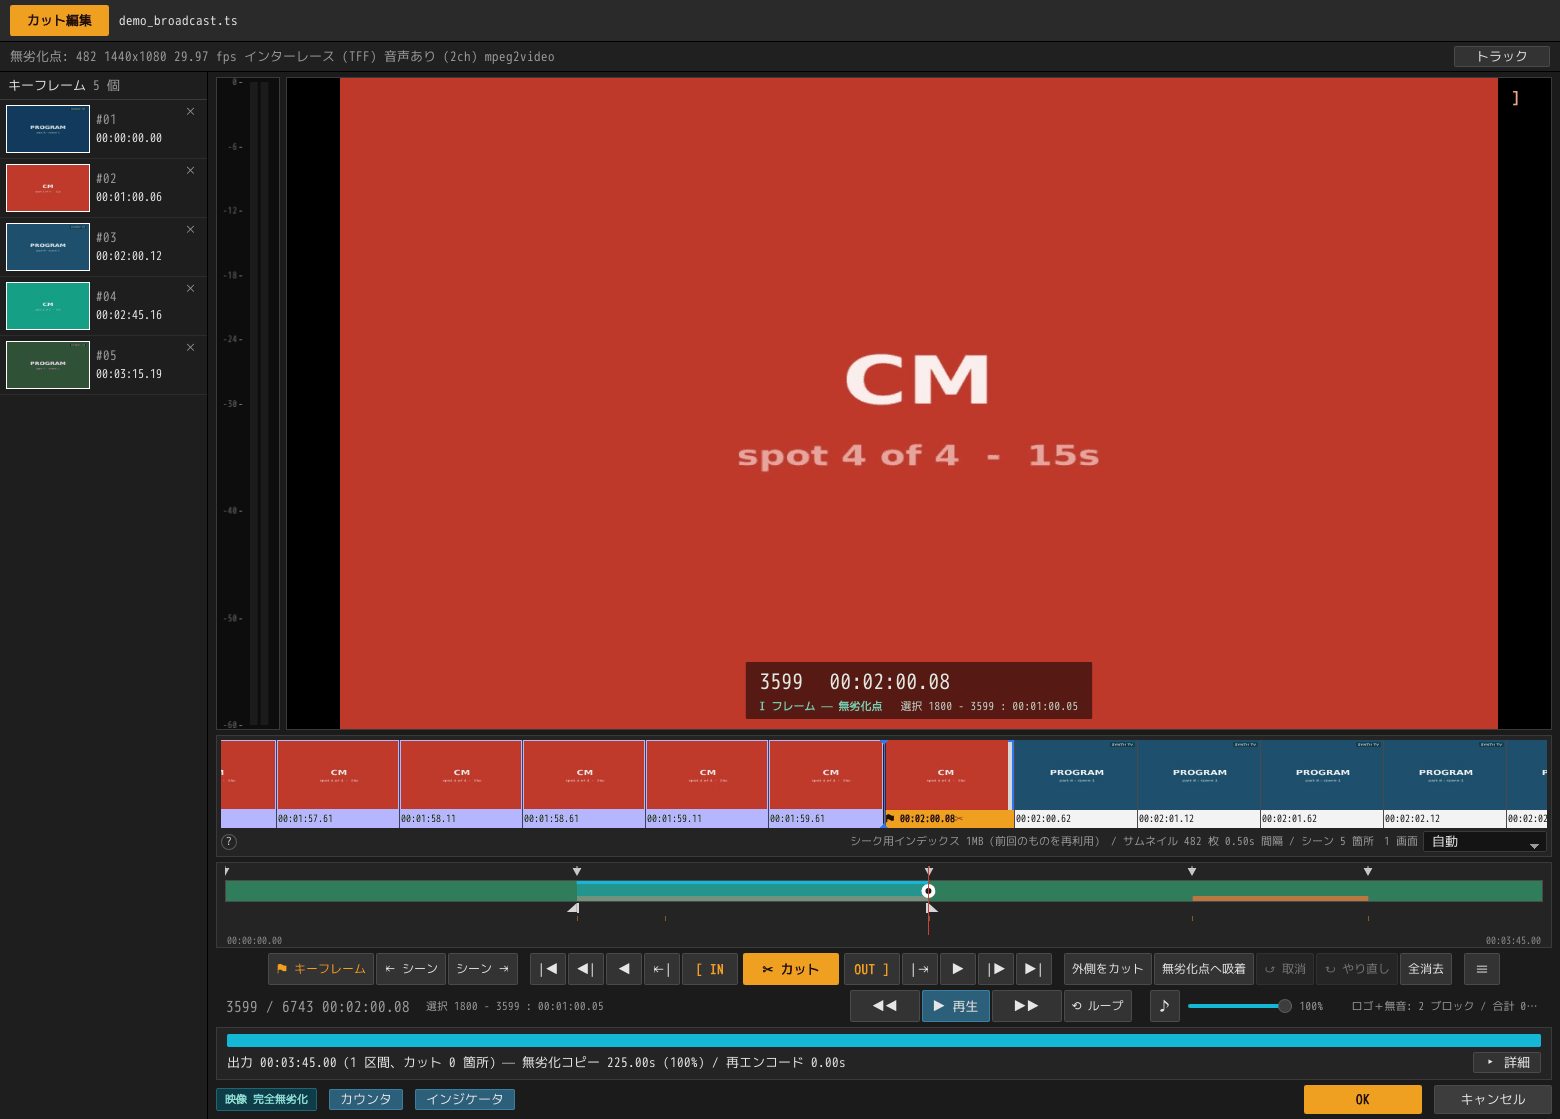
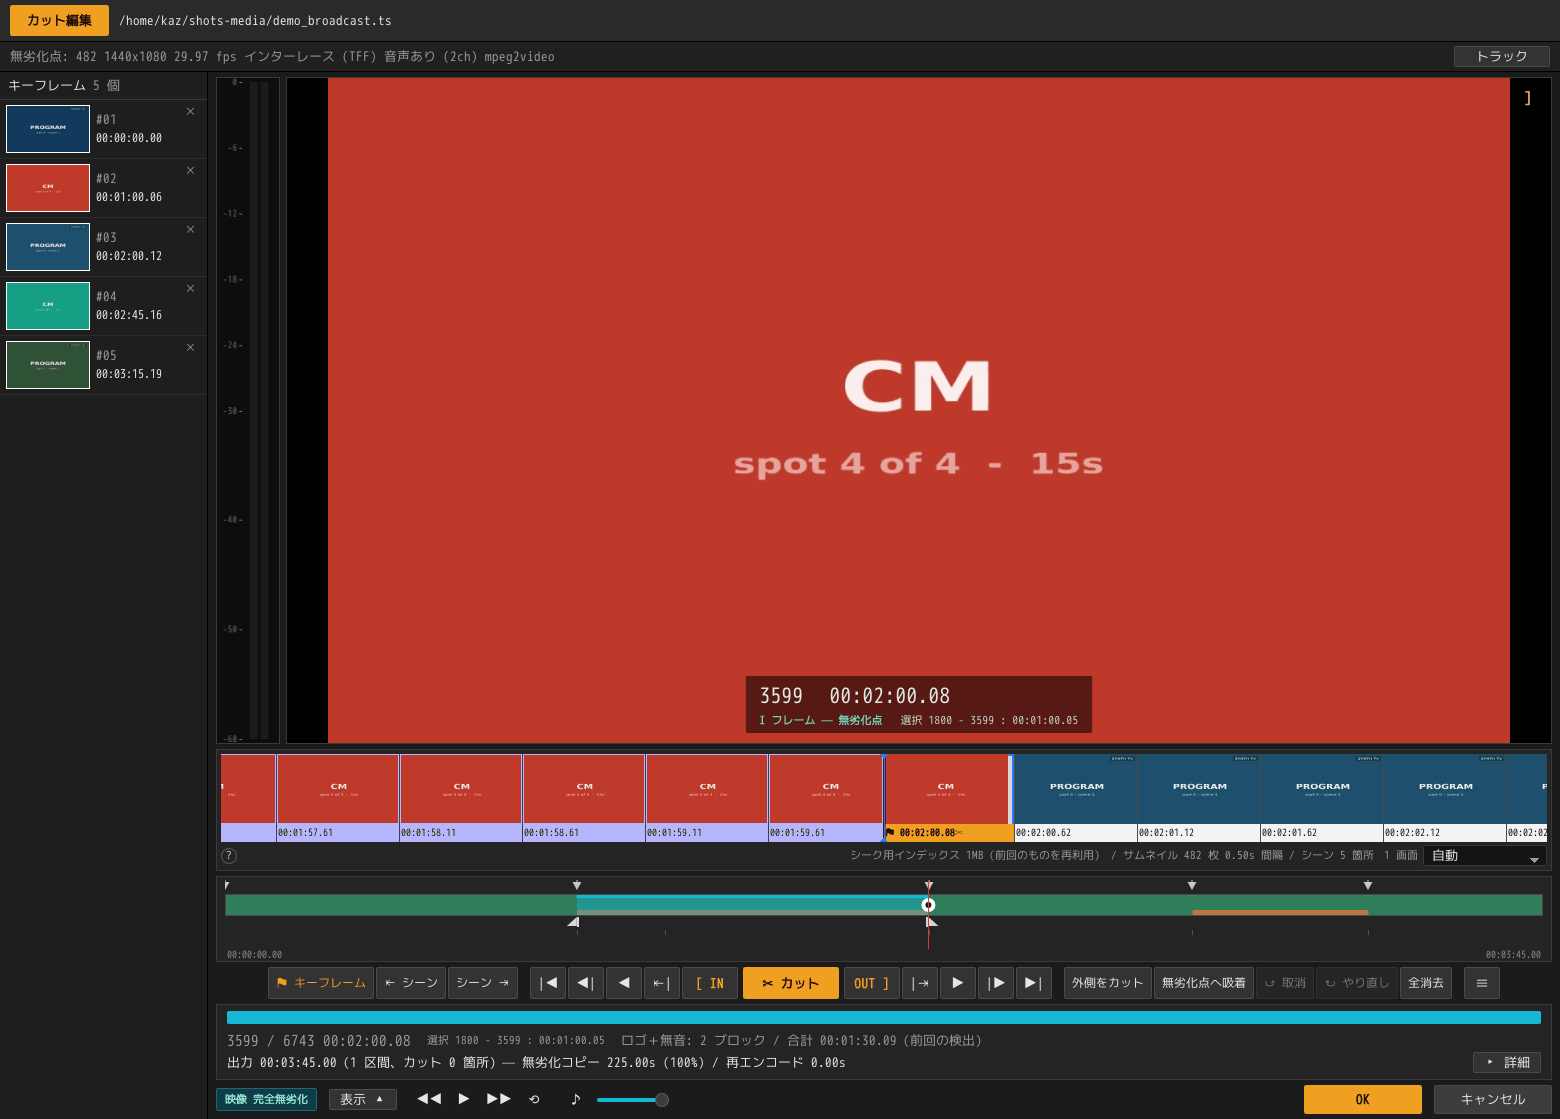
Retake the cut editor's pictures for its new rows, and say where ≡ is

diff --git a/docs/user-guide/gui.ja.md b/docs/user-guide/gui.ja.md
@@ -174,9 +174,9 @@
 ![クリップを並べた入力設定画面](../images/usage-list.ja.png)
 
 各行には、ファイル名、長さ（フレーム数）・範囲・解像度・フレームレート・
-コーデックが表示されます。その下の行には、キーフレームとカットの数、CM 検出の
-結果がこの順に並びます。キーフレームの数は先頭なので、CM 検出をしていない行でも
-同じ位置で読めます。
+コーデックが表示されます。その下の行には、キーフレームの数、カットの数、CM・黒白・
+無音の検出の結果がこの順に並びます。キーフレームの数が先頭にあるので、検出を
+していない行でも同じ位置で読めます。
 右端の `Smart` はこの素材でスマートレンダリングが効くという印で、
 `CM 2` は CM ブロックが 2 つ見つかったという意味です。
 
@@ -462,16 +462,16 @@ BDAV 出力では番組名にも入ります（出力設定で番組名を直接
 
 | どこ | 何 |
 |---|---|
-| 最上段 | 録画のフルパス。フォルダーが長くて入りきらないときは、フォルダーの側を `…` で省いてファイル名を残します。マウスポインタを置くと全体が出ます。クリップ名を変更した行とディスクの番組では、その名前が先頭に付きます |
-| 情報バー | 無劣化点の数・解像度・fps・走査方式・音声・コーデック。右端に**トラック**（CM・黒白・無音の検出は右下の `≡` メニューです） |
+| 最上段 | 録画のフルパス。フォルダーが長くて入りきらないときは、フォルダーの側を `…` で省いてファイル名を残します。マウスポインタを置くと全体が出ます。クリップ名を変えた行とディスクの番組では、その名前が先頭に付きます |
+| 情報バー | 無劣化点の数・解像度・fps・走査方式・音声・コーデック。右端に**トラック**（CM・黒白・無音の検出は、編集のボタンの右端にある `≡` メニューです） |
 | 左の列 | **キーフレーム**（印）の一覧。サムネイル付きで、押せばそこへ飛びます。黒白検出・無音検出が置いた印には `黒` `白` `無音` の札が付きます。下のほうの印を押しても、スクロール位置はそのままです |
 | 中央 | プレビュー。映像の下端中央にフレーム番号・時刻・そのフレームの種類・選択範囲が出ます。左上と右上には選択範囲やキーフレームのインジケータが出ます（下の表）。下端の表示もインジケータも、最下段の**表示**メニューで消せます |
 | プレビューの左 | **音声レベルメーター**。再生中は鳴っている音、止めているときは再生位置の音の大きさです（環境設定で消せます） |
 | その下の帯 | **フィルムストリップ**。前後のフレームをサムネイルで並べたものです。1 画面に映す秒数は右の「1 画面」で選べます。既定の「自動」では、キーフレームの間隔に合わせて、1 GOP がサムネイル 1 枚分の幅になるように秒数を決めます（2〜60 秒）。セルの幅は、そのセルが表す時間に比例します。いまの位置は中央の縦線で示します。「1 フレームずつ」のときは 1 セルが 1 フレームなので、縦線の代わりに、表示中のフレームを青い枠で囲みます。操作の説明は、ストリップの下の行の左端にある `?` にマウスポインタを置くと表示されます |
 | シークバー | 緑の部分が出力になる範囲。`▼` がキーフレーム、くすんだ赤の縦線がカットの継ぎ目、下の細い目盛りが場面の変わり目。その下の 2 段が、黒・白の区間と無音の区間です。**再生位置は `◎` と、上から下まで通った明るい赤の縦線**です。`◎` は緑の帯の中にしかないので、その上下に並ぶ印や区間と再生位置が合っているかどうかは、この線で読みます |
 | ボタンの列 | 中央が**カット**、その左が `[ IN`、右が `OUT ]`。外へ向かって「移動」「1 フレーム」「無劣化点」「先頭・末尾」と対称に広がります |
-| 編集の行 | **外側をカット**・**無劣化点へ吸着**・取消・やり直し・全消去と `≡` メニュー。ボタンの列に収まるときはその右端に並び、収まらないときはこの行の中央に並びます |
-| 下の帯と行 | **書き出しの計画**。帯のすぐ下の行に、いまのフレーム番号・全体のフレーム数・時刻、選択範囲、CM 検出の結果が並びます。入りきらないときは CM 検出の結果、選択範囲の順に末尾を `…` で省くので、全体はマウスポインタを置いて読んでください（CM 検出の結果はクリップ一覧でも読めます）。フレーム番号（映像に重ねて出る番号ではありません）をクリックするか `J`（`Ctrl+J` でも可）を押すと、フレーム番号が入力欄に変わります。フレーム番号か時刻（`00:01:23.45`）を入力して `Enter` を押すと、そこへ移動します。`Esc` を押すと、移動せずに入力欄が閉じます。その下の行が、どこをコピーして、どこを作り直すかです。右端の「▸ 詳細」を押すと、コピーと再エンコードの一覧が出ます |
+| 編集の行 | **外側をカット**・**無劣化点へ吸着**・取消・やり直し・全消去と `≡` メニュー。ボタンの列に収まるときはその右端に並び、収まらないときはボタンの列の下の行の中央に並びます |
+| 下の帯と行 | **書き出しの計画**。帯のすぐ下の行に、いまのフレーム番号・全体のフレーム数・時刻、選択範囲、CM 検出の結果が並びます。入りきらないときは、CM 検出の結果、選択範囲の順に末尾を `…` で省きます。省いた部分は、マウスポインタを置くと読めます（CM 検出の結果はクリップ一覧でも読めます）。フレーム番号（映像に重ねて出る番号ではありません）をクリックするか `J`（`Ctrl+J` でも可）を押すと、フレーム番号が入力欄に変わります。フレーム番号か時刻（`00:01:23.45`）を入力して `Enter` を押すと、そこへ移動します。`Esc` を押すと、移動せずに入力欄が閉じます。その下の行には、どこをコピーして、どこを作り直すかが出ます。右端の「▸ 詳細」を押すと、コピーと再エンコードの一覧が出ます |
 | 最下段 | 左にカットのコスト、その隣に**表示**（プレビューに何を重ねるか。カウンタ・インジケータ・字幕を選ぶメニュー）、再生ボタン（`◀◀` 巻き戻し・`▶` 再生・`▶▶` 早送り・`⟲` ループ）と音量、メッセージ（ファイルの読み込み結果や検出の進み具合など）。右に **OK** と**キャンセル** |
 
 プレビューの左上と右上に出るインジケータは次のとおりです。いま表示しているフレームに
@@ -560,13 +560,13 @@ BDAV 出力では番組名にも入ります（出力設定で番組名を直接
 
 ### 継ぎ目を繰り返し聞く
 
-再生のボタンは最下段の「表示」の右にあり、巻き戻し・再生・早送り・ループ
-（`⟲`）、その右に音量が並びます。
+再生のボタンは最下段の**表示**の右にあります。巻き戻し・再生・早送り・
+ループ（`⟲`）が並び、その右に音量があります。
 
-ループを押しておくと（押している間はボタンが青くなります）、再生が選択範囲の終わりまで来たところで開始位置に戻り、
-また再生します。繰り返すのは選択範囲です。再生位置が選択範囲の中にあれば
-そこから、外にあれば IN から始まります。選択範囲を決めていない録画では、
-録画全体を繰り返します。
+ループ（`⟲`）を押してオンにしておくと、再生が選択範囲の終わりまで来たところで
+開始位置に戻り、また再生します。オンのあいだはボタンが青くなります。
+繰り返すのは選択範囲です。再生位置が選択範囲の中にあればそこから、外にあれば
+IN から始まります。選択範囲を決めていない録画では、録画全体を繰り返します。
 
 カットした直後は、選択範囲がその継ぎ目の 1 点に畳まれています。この状態で
 `Space` を押すと、**継ぎ目の前後あわせて 0.5 秒**が繰り返されます。継ぎ目の
@@ -631,7 +631,7 @@ CM の切れ目では、音が 1 秒ほど途切れます。1 フレームずつ
 
 ![プレビューに字幕を出したところ](../images/usage-subs.ja.png)
 
-最下段の**表示**メニューの下半分で、字幕を選べます。既定は「表示しない」で、
+字幕は、最下段の**表示**メニューの下半分で選べます。既定は「表示しない」で、
 字幕を選ぶとプレビューの映像の上に重なります。**カットの位置を字幕で確かめる
 ための機能です。** 継ぎ目が台詞の途中に来ていないか、CM の前後で字幕がどこまで
 出ているかは、映像だけでは分かりません。
@@ -658,8 +658,8 @@ CM の切れ目では、音が 1 秒ほど途切れます。1 フレームずつ
 
 ### 黒・白の区間と無音の区間を探す
 
-右下の `≡` メニューの「黒を検出」（`Ctrl+B`）「無音を検出」（`Ctrl+Q`）で、
-いま開いている録画を調べます。前者の名前は、一覧のボタンと同じく環境設定の
+編集のボタンの右端にある `≡` メニューの「黒を検出」（`Ctrl+B`）と
+「無音を検出」（`Ctrl+Q`）で、いま開いている録画を調べます。前者の名前は、一覧のボタンと同じく環境設定の
 「黒白検出で探すもの」に合わせて変わります。一覧で検出済みの録画なら、開いた
 時点で結果が並んでいます。2 つは別々の処理なので、片方を押してももう片方の
 結果は消えません。
@@ -732,7 +732,8 @@ CM の切れ目では、音が 1 秒ほど途切れます。1 フレームずつ
 
 ![≡ を開いたところ](../images/usage-marks.ja.png)
 
-操作ボタンの右端に **≡** があります。印にまつわる操作はここにまとまっています。
+編集のボタン（`外側をカット`〜全消去）の右端に **≡** があります。印にまつわる
+操作はここにまとまっています。
 
 | 項目 | 何をするか |
 |---|---|

diff --git a/docs/user-guide/gui.md b/docs/user-guide/gui.md
@@ -182,10 +182,10 @@ preparation is no slower for it.
 
 Each row shows the filename; the length in frames, the time range, the
 resolution, the frame rate and the codec; and under those, how many keyframes
-and cuts you have put down, then what commercial detection found. The keyframe
-count comes first, so it stands in the same place on a row nothing was detected
-on. On the right, `Smart` means smart rendering
-applies to this material, and `CM 2` means two commercial blocks were found.
+and cuts you have put down, then what the commercial, blank and silence
+detections found. The keyframe count comes first, so it stands in the same
+place on a row nothing was detected on. On the right, `Smart` means smart
+rendering applies to this material, and `CM 2` means two commercial blocks were found.
 
 **The length is the length after cutting.** On a row with cuts in it, what was
 recorded follows on the same line under `before cutting`. The total across the
@@ -476,7 +476,7 @@ frames, and `Snap to lossless` can take those to zero once it lights up.
 | Where | What |
 |---|---|
 | Top line | The recording's whole path. Where the folders will not fit, they are cut short with `…` and the filename is kept whole; hover over it for the rest. A renamed row, or a programme on a disc, has its name in front |
-| Info bar | Lossless points, resolution, fps, scan type, audio, codec. **Tracks** on the right; the three detections are in the `≡` menu at the bottom right |
+| Info bar | Lossless points, resolution, fps, scan type, audio, codec. **Tracks** on the right; the three detections are in the `≡` menu at the end of the edit buttons |
 | Left column | The **keyframes** — your marks, each with a thumbnail. Click one to jump there; the column stays where it is scrolled to. A mark a detection put down carries `Black`, `White` or `Quiet` under its time |
 | The large picture | The preview. At its foot, in the middle: frame number, timecode, what kind of frame it is, and the current selection. In its top corners, indicators for the frame on screen (below). The **View** menu on the bottom line turns either off |
 | Beside it, on the left | The **audio level meter**: what is being heard while something plays, and the sound under the playhead while nothing does. **Preferences → Windows** turns it off |
@@ -678,7 +678,7 @@ subtitles go into the output is answered by **Tracks** and by the output setting
 ### Finding blank pictures and silence
 
 **Detect black** (`Ctrl+B`) and **Detect silence** (`Ctrl+Q`), in the `≡` menu
-at the bottom right, read the recording that is open. The first is named after
+at the end of the edit buttons, read the recording that is open. The first is named after
 **The blank pass looks for** in Preferences, as the list's button is. If the
 list has already been over it, what was found is on the timeline when the
 window opens. They are two passes: running one leaves what the other found where
@@ -760,7 +760,7 @@ opened off a **disc** — from the chapters the recorder itself set.
 
 ![The ≡ menu, open](../images/usage-marks.png)
 
-**≡**, at the right-hand end of the transport row, holds everything to do with
+**≡**, at the end of the edit buttons (**Cut outside** to clear all), holds everything to do with
 the marks.
 
 | Line | What it does |

diff --git a/docs/user-guide/cm-detection.ja.md b/docs/user-guide/cm-detection.ja.md
@@ -4,8 +4,8 @@
 
 CM の切れ目を、SmartCut が自動で探します。
 一覧でクリップを選んで `Ctrl+D` を押すか、右の「CM を検出」ボタンを押して
-ください。カット編集画面では、右下の `≡` メニューから「CM を検出」を選ぶか、
-`Ctrl+D` を押してください。
+ください。カット編集画面では、編集のボタンの右端にある `≡` メニューから
+「CM を検出」を選ぶか、`Ctrl+D` を押してください。
 
 ## 検出は「印を置く」ところまで
 

diff --git a/docs/technical/distribution.md b/docs/technical/distribution.md
@@ -240,7 +240,7 @@ Cross-built from the Linux development VM to `x86_64-pc-windows-msvc`.
 
 | Artifact | Size | Contents |
 |---|---|---|
-| NSIS installer | 55.0 MB | 176.4 MB installed (the GUI's exe, the CLI's exe and 8 FFmpeg DLLs) |
+| NSIS installer | 55.5 MB | 178.3 MB installed (the GUI's exe, the CLI's exe and 8 FFmpeg DLLs) |
 | Portable zip | 68.8 MB | The same set. Unzip and run `smartcut.exe` for the GUI, `smartcut-cli.exe` for the command line |
 
 **The command-line tool ships under the name the Linux packages give it.** Its cargo

diff --git a/docs/user-guide/cm-detection.md b/docs/user-guide/cm-detection.md
@@ -5,7 +5,7 @@
 SmartCut can find the commercial breaks in a recording for you. Select clips in
 the list and press `Ctrl+D`, or use the **Detect commercials** button on the
 right. In the cut editor it is **Detect commercials** in the `≡` menu at the
-bottom right, or `Ctrl+D`.
+end of the edit buttons, or `Ctrl+D`.
 
 ## Detection places marks — that is all
 
